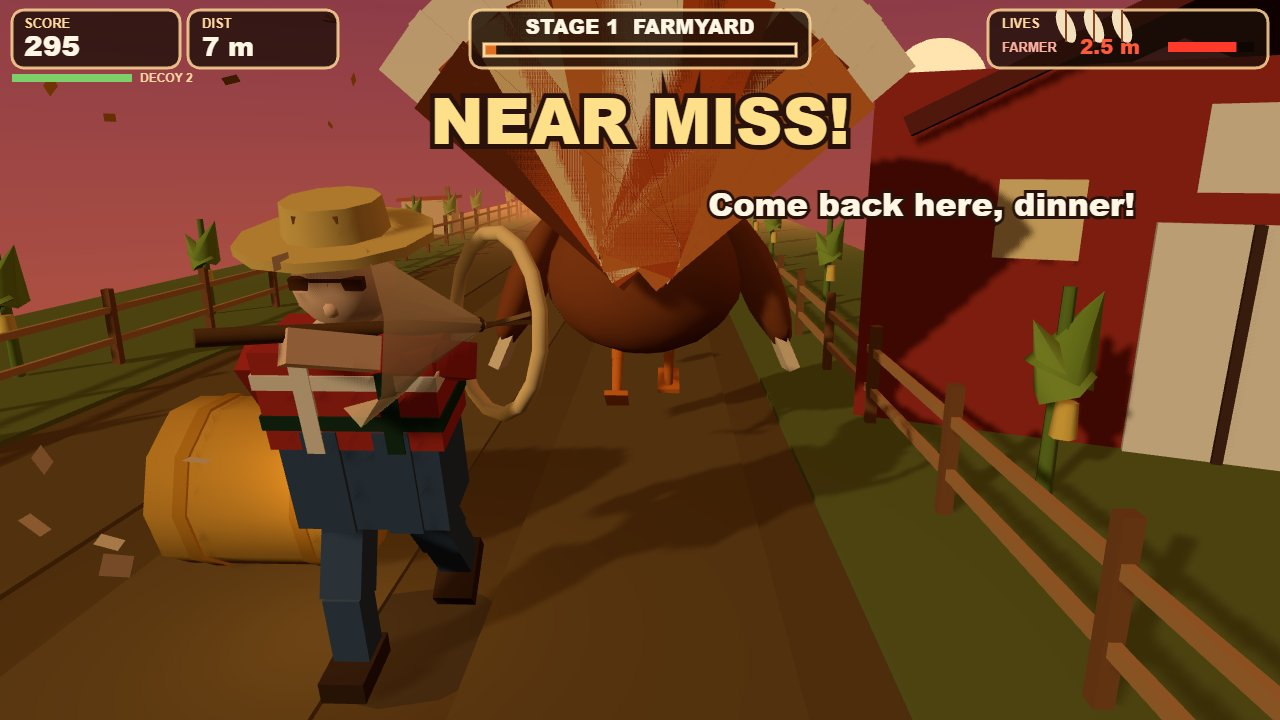
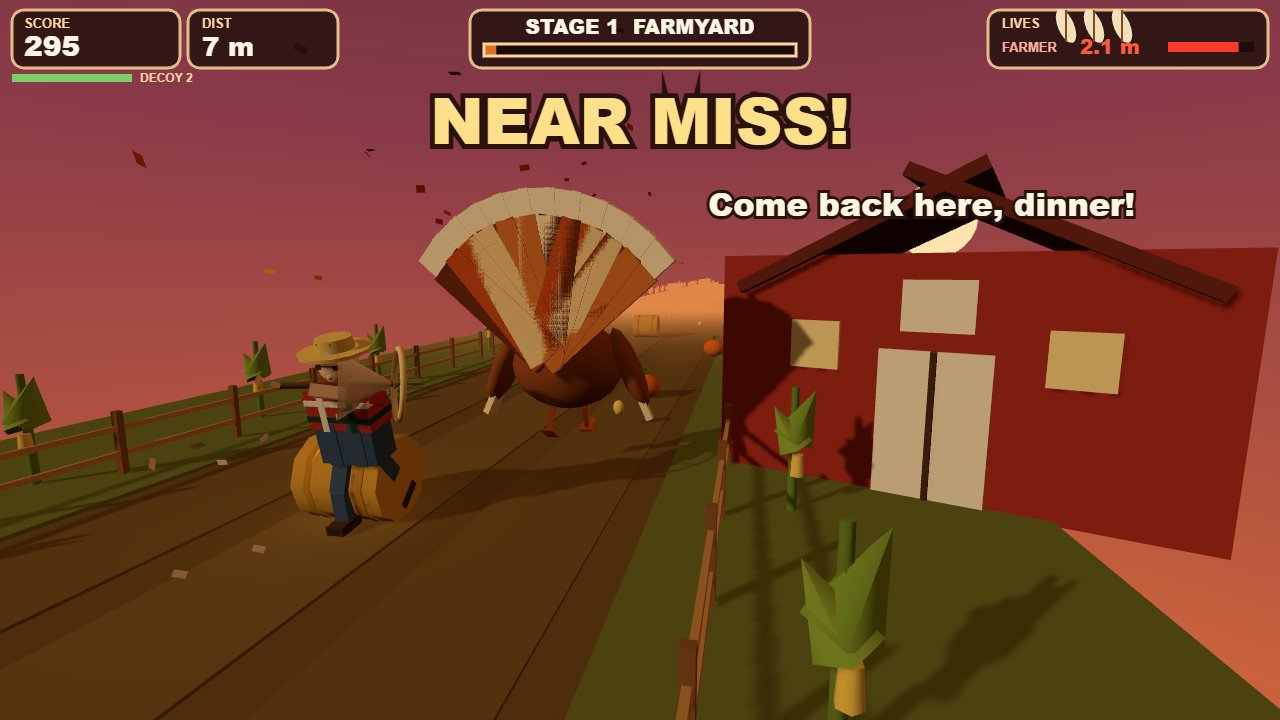
V2: camera

diff --git a/game/src/camera-rig.js b/game/src/camera-rig.js
@@ -1,4 +1,6 @@
-// Low chase camera: Tom sits in the lower middle, the lane runs away, Hank stays in frame behind.
+// Chase camera sits well behind and above Tom. World forward is -Z, so the rig
+// stays on +Z and looks down the lane. Tom lands in the lower-middle third;
+// Hank, between the camera and the turkey, stays fully in frame.
 
 import * as THREE from 'three';
 
@@ -9,23 +11,25 @@ export function createCameraRig(camera) {
   return {
     snap: true,
     update(bird, farmer, state, dt) {
-      desired.set(bird.x - 0.25, 2.35, bird.z + 5.85);
-      look.set(bird.x + 0.1, 0.62, bird.z - 2.15);
+      // Check: bird at origin → cam (0.55, 4.35, 10.6), look (-0.2, 1.15, -8.2).
+      // View aims mostly -Z and a little down, so the tail does not fill the lens.
+      desired.set(bird.x + 0.7, 3.55, bird.z + 9.2);
+      look.set(bird.x, 1.05, bird.z - 7.5);
       if (state.shot === 'cover') {
-        desired.set(bird.x + 0.15, 2.55, bird.z + 6.15);
-        look.set(bird.x - 0.1, 0.42, bird.z - 2.4);
+        desired.set(bird.x + 2.55, 3.15, bird.z + 8.15);
+        look.set(bird.x - 0.15, 0.95, bird.z - 6.6);
       } else if (state.shot === 'kitchen') {
-        desired.set(bird.x + 0.35, 2.45, bird.z + 5.7);
-        look.set(bird.x - 0.15, 0.72, bird.z - 2.5);
+        desired.set(bird.x + 0.2, 2.25, bird.z + 5.35);
+        look.set(bird.x - 0.35, 0.82, bird.z - 4.8);
       } else if (state.mode === 'title') {
-        desired.set(-0.7, 1.9, -1.6);
-        look.set(0.15, 0.7, -8.2);
+        desired.set(-1.6, 2.55, 1.4);
+        look.set(0.1, 0.85, -9.4);
       } else if (state.caughtPose) {
-        desired.set(bird.x - 2.5, 1.72, bird.z + 3.5);
-        look.set(bird.x + 2.1, 0.95, bird.z - 0.6);
+        desired.set(bird.x - 3.6, 2.35, bird.z + 5.4);
+        look.set(bird.x + 1.4, 1.05, bird.z - 1.2);
       } else if (state.escapedPose) {
-        desired.set(bird.x - 2.4, 1.9, bird.z + 4.4);
-        look.set(bird.x, 1.0, bird.z - 6);
+        desired.set(bird.x - 3.2, 2.6, bird.z + 6.2);
+        look.set(bird.x, 1.15, bird.z - 8);
       }
       if (this.snap) {
         camera.position.copy(desired);

diff --git a/game/src/hazards.js b/game/src/hazards.js
@@ -59,10 +59,10 @@ export function makeKnife() {
   const g = new THREE.Group();
   const blade = new THREE.Group();
   g.add(blade);
-  const steel = mesh(new THREE.BoxGeometry(2.05, 0.42, 0.08), 0xf4f7fb, 0.42, 0.95, 0, blade);
+  const steel = mesh(new THREE.BoxGeometry(2.15, 0.62, 0.1), 0xf4f7fb, 0.42, 0.95, 0, blade);
   steel.material = new THREE.MeshBasicMaterial({ color: 0xf4f7fb });
-  mesh(new THREE.BoxGeometry(1.9, 0.06, 0.09), 0x8b949e, 0.36, 1.12, 0, blade);
-  const edge = mesh(new THREE.BoxGeometry(1.95, 0.045, 0.09), 0xff241c, 0.4, 0.78, 0.02, blade);
+  mesh(new THREE.BoxGeometry(1.95, 0.07, 0.11), 0x8b949e, 0.36, 1.2, 0, blade);
+  const edge = mesh(new THREE.BoxGeometry(2.05, 0.09, 0.12), 0xff241c, 0.4, 0.7, 0.02, blade);
   edge.material = new THREE.MeshBasicMaterial({ color: 0xff241c });
   const tip = mesh(new THREE.ConeGeometry(0.28, 0.78, 4), 0xf7fbff, 1.78, 0.95, 0, blade);
   tip.rotation.z = -Math.PI / 2;
@@ -135,17 +135,17 @@ export function primeShotHazards(root, time, bird) {
       if (!found.knife && kind === 'knife') found.knife = obj;
     });
   }
-  drop(found.oven, -2.35, 2.15);
-  drop(found.knife, 0.28, -1.15);
+  drop(found.oven, -2.55, 0.55);
+  drop(found.knife, 0.15, -2.05);
   if (found.oven) {
-    found.oven.scale.setScalar(1.45);
-    found.oven.rotation.y = 0.55;
+    found.oven.scale.setScalar(1.55);
+    found.oven.rotation.y = -0.65;
   }
   if (found.knife) {
-    found.knife.scale.setScalar(1.2);
-    found.knife.rotation.set(0.12, 0.62, -0.18);
-    found.knife.position.y = -0.22;
+    found.knife.scale.setScalar(1.45);
+    found.knife.rotation.set(-0.55, 0.35, -0.15);
+    found.knife.position.y = 0;
   }
   if (found.oven) found.oven.userData.phase = phaseFor(time, 3.2, 2.55);
-  if (found.knife) found.knife.userData.phase = phaseFor(time, 2.6, 2.12);
+  if (found.knife) found.knife.userData.phase = phaseFor(time, 2.6, 2.08);
 }

diff --git a/game/src/main.js b/game/src/main.js
@@ -36,7 +36,7 @@ renderer.shadowMap.type = THREE.PCFShadowMap;
 renderer.outputColorSpace = THREE.SRGBColorSpace;
 
 const scene = new THREE.Scene();
-const camera = new THREE.PerspectiveCamera(50, window.innerWidth / window.innerHeight, 0.1, 180);
+const camera = new THREE.PerspectiveCamera(62, window.innerWidth / window.innerHeight, 0.1, 220);
 const lighting = createLighting(scene);
 const particles = createParticles(scene);
 const turkey = createTurkey();
@@ -339,10 +339,10 @@ if (query.name) {
     state.shoutT = 2;
     farmer.state = 'LUNGE';
     state.farmerState = 'LUNGE';
-    state.farmerDist = 2.45;
-    farmer.z = bird.z + 2.45;
-    farmer.x = bird.x - 1.2;
-    bird.y = 0.72;
+    state.farmerDist = 2.15;
+    farmer.z = bird.z + 1.65;
+    farmer.x = bird.x - 2.05;
+    bird.y = 0.85;
     bird.grounded = false;
     bird.pose = 'jump';
   }
@@ -358,8 +358,8 @@ if (query.name) {
     farmer.state = 'CHASE';
     state.farmerState = 'CHASE';
     state.farmerDist = 2.4;
-    farmer.z = bird.z + 2.45;
-    farmer.x = bird.x + 1.95;
+    farmer.z = bird.z + 2.15;
+    farmer.x = bird.x + 1.35;
     state.hat = 'none';
     turkey.userData.setHat('none');
     bird.sliding = 0;
